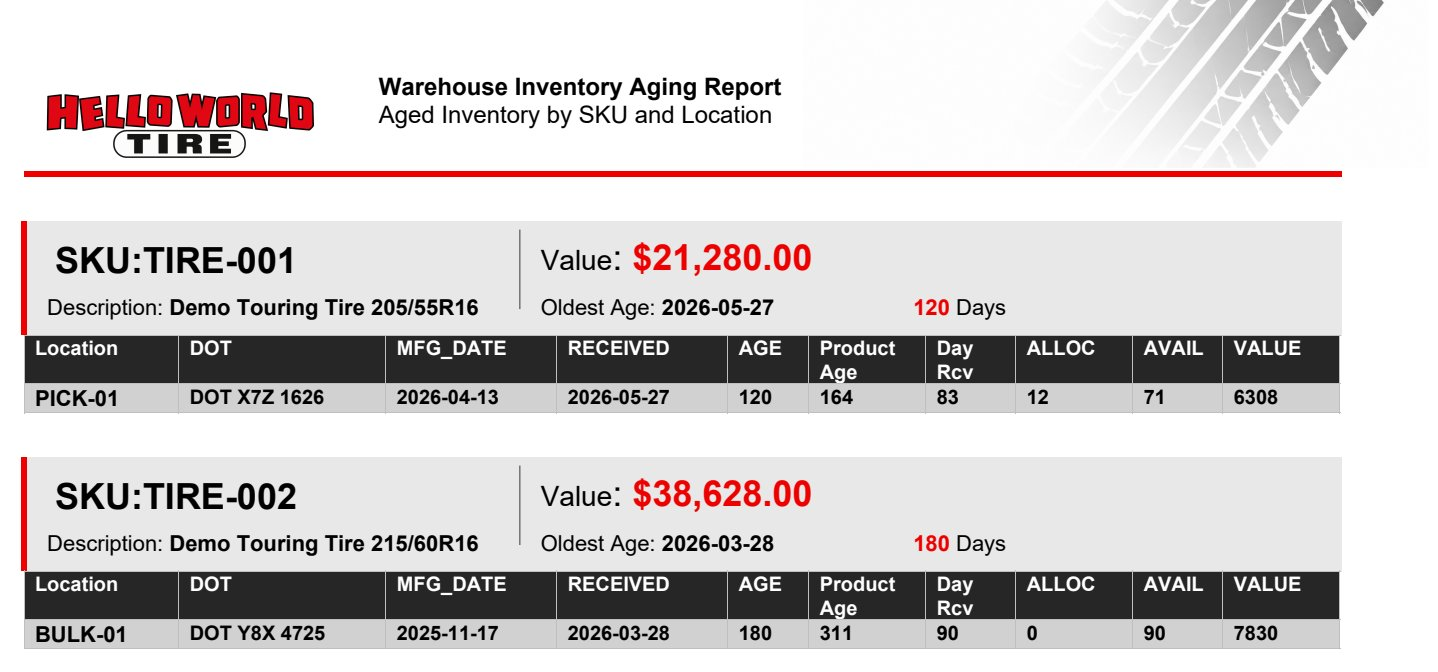
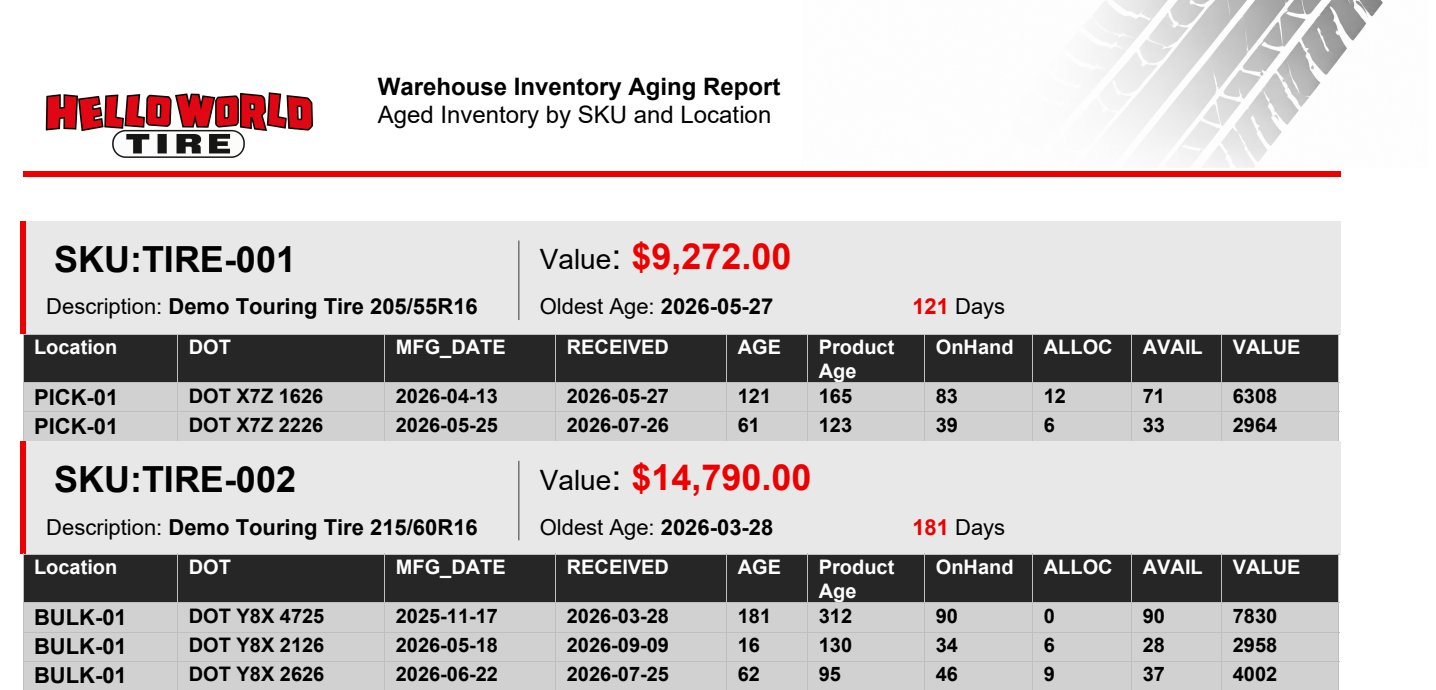
Update BI Publisher sample to fixed template; add TEMPLATE_XSL debug option
- Sample PDF/preview now come from the corrected WAREHOUSE.rtf (restored
  <?for-each:current-group()?> detail loop, OnHand label), rendered live
  for DEMO-EAST so per-SKU totals match their detail rows.
- bip-report: optional TEMPLATE_XSL env var renders a pre-built XSL-FO
  instead of compiling the RTF, for isolating pagination issues.

diff --git a/bip-report/src/BipReportServer.java b/bip-report/src/BipReportServer.java
@@ -75,11 +75,17 @@ public class BipReportServer {
         int port = Integer.parseInt(env("PORT", "8790"));
 
         // Compile the RTF layout to XSL-FO once at startup; every request reuses it.
-        xslPath = "/tmp/warehouse.xsl";
-        RTFProcessor rtf = new RTFProcessor(template);
-        rtf.setOutput(xslPath);
-        rtf.process();
-        log("compiled " + template + " -> " + xslPath);
+        // TEMPLATE_XSL skips compilation and uses a pre-built XSL-FO (for layout debugging).
+        xslPath = env("TEMPLATE_XSL", null);
+        if (xslPath == null) {
+            xslPath = "/tmp/warehouse.xsl";
+            RTFProcessor rtf = new RTFProcessor(template);
+            rtf.setOutput(xslPath);
+            rtf.process();
+            log("compiled " + template + " -> " + xslPath);
+        } else {
+            log("using pre-built XSL " + xslPath);
+        }
 
         HttpServer server = HttpServer.create(new InetSocketAddress(port), 0);
         server.createContext("/health", ex -> send(ex, 200, "application/json", "{\"status\":\"ok\"}".getBytes(StandardCharsets.UTF_8)));

diff --git a/bip-report/README.md b/bip-report/README.md
@@ -49,13 +49,18 @@ printf "rptview:%s\n" "$PW" | docker exec -i dhl-db2 chpasswd
 
 ## Updating the template
 
-After editing `WAREHOUSE.rtf` in Word:
+After editing the template in Word, save and close Word, then copy it over. Whatever the local
+filename is, it must land on Skynet as `template/WAREHOUSE.rtf`:
 
 ```bash
-scp "C:/Users/chich/OneDrive/Desktop/O_BI/WAREHOUSE.rtf" skynet:~/bip-report/template/
+scp "C:/Users/chich/OneDrive/Desktop/O_BI/WAREHOUSE_Fix_loop.rtf" skynet:~/bip-report/template/WAREHOUSE.rtf
 ssh skynet 'cd ~/bip-report && docker build -q -t bip-report:latest . && docker rm -f bip-report && docker run -d --name bip-report --restart unless-stopped --env-file .env -p 100.123.161.53:8790:8790 bip-report:latest'
 ssh skynet 'docker logs bip-report 2>&1 | grep -E "SEVERE|compiled"'   # template compile errors show here
 ```
+
+To test a template without touching the live container, run a second one on another port with
+the RTF mounted over `TEMPLATE_RTF`. Set `TEMPLATE_XSL` to skip RTF compilation and render a
+hand-edited XSL-FO instead; that's useful for isolating pagination and keep issues.
 
 ## Routes
 
